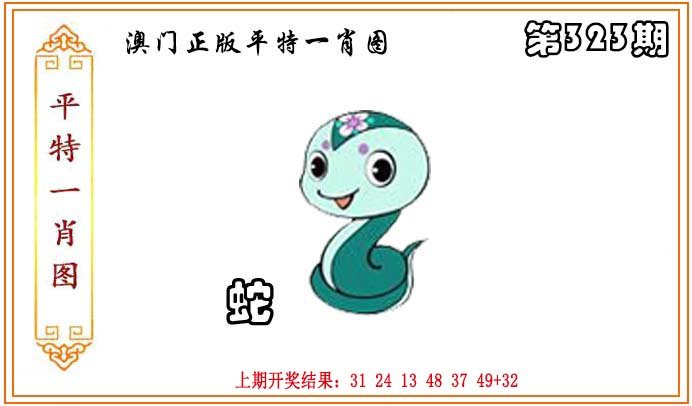
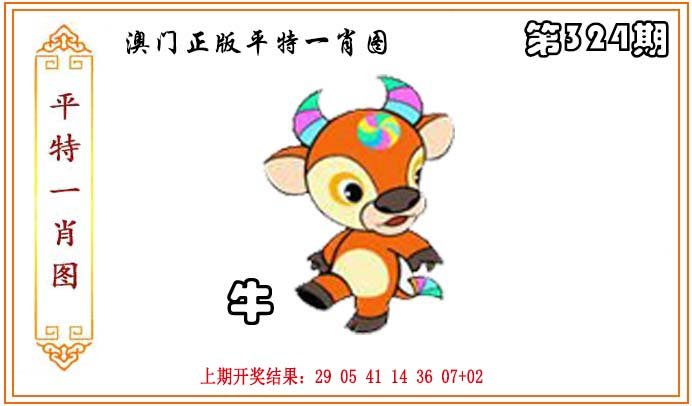
Update:  2023.11.19 22:20:43

diff --git a/Script/Src/xjw/顶部六肖.js b/Script/Src/xjw/顶部六肖.js
@@ -6,6 +6,51 @@ document.writeln("");
 document.writeln("");
 
 
+document.writeln("");
+document.writeln(" <table border=\'1\' width=\'100%\' height=\'30\' bordercolor=\'#DDDDDD\' class=\'qxtable\' style=\'box-sizing: border-box; table-layout: fixed; font-weight: bold; word-wrap: break-word; word-break: break-all; text-align: center; color: rgb(255, 255, 255); font-family: \'Microsoft YaHei\', Arial, Helvetica, sans-serif; font-size: 14px; font-style: normal; font-variant-ligatures: normal; font-variant-caps: normal; letter-spacing: normal; orphans: 2; text-indent: 0px; text-transform: none; white-space: normal; widows: 2; word-spacing: 0px; -webkit-text-stroke-width: 0px; text-decoration-style: initial; text-decoration-color: initial; border-collapse: collapse; border: 0px none; margin: 0px; padding: 0px; background: rgb(255, 255, 255)\'>");
+document.writeln("	<tbody style=\'padding: 0px; margin: 0px; border: 0px; box-sizing: border-box;\'>");
+document.writeln("		<tr style=\'padding: 0px; margin: 0px; border: 0px; box-sizing: border-box; height: 30px;\'>");
+document.writeln("			<td width=\'100%\' height=\'27\' bordercolor=\'#DEDEDE\' bgcolor=\'#FF99FF\' style=\'padding: 0px; margin: 0px; border: 1px solid rgb(101, 101, 101); box-sizing: border-box; text-overflow: ellipsis; font-size: 16px; color: rgb(0, 0, 0);\'>");
+document.writeln("			324期<font style=\'padding: 0px; margin: 0px; border: 0px; box-sizing: border-box;\'><b style=\'padding: 0px; margin: 0px; border: 0px; box-sizing: border-box;\'>:玄机网86281.com</b></font></td>");
+document.writeln("		</tr>");
+document.writeln("		<tr style=\'padding: 0px; margin: 0px; border: 0px; box-sizing: border-box; height: 30px;\'>");
+document.writeln("			<td width=\'100%\' height=\'33\' bordercolor=\'#DEDEDE\' bgcolor=\'#FFFFFF\' style=\'padding: 0px; margin: 0px; border: 1px solid rgb(101, 101, 101); box-sizing: border-box; text-overflow: ellipsis; font-size: 16px; color: rgb(0, 0, 0); text-align: left;\'>");
+document.writeln("			<b style=\'padding: 0px; margin: 0px; border: 0px; box-sizing: border-box;\'>");
+document.writeln("			<font color=\'#000000\' style=\'padding: 0px; margin: 0px; border: 0px; box-sizing: border-box;\'>");
+document.writeln("			六肖:</font></b><b style=\'box-sizing: border-box\'><font color=\'#FF0000\' style=\'box-sizing: border-box\'>蛇牛狗马羊鸡</font></b></td>");
+document.writeln("		</tr>");
+document.writeln("		</tr>");
+document.writeln("		<tr style=\'padding: 0px; margin: 0px; border: 0px; box-sizing: border-box; height: 30px;\'>");
+document.writeln("			<td width=\'100%\' height=\'30\' bordercolor=\'#DEDEDE\' bgcolor=\'#FFFFFF\' style=\'padding: 0px; margin: 0px; border: 1px solid rgb(101, 101, 101); box-sizing: border-box; text-overflow: ellipsis; font-size: 16px; color: rgb(0, 0, 0); text-align: left;\'>");
+document.writeln("			<b style=\'padding: 0px; margin: 0px; border: 0px; box-sizing: border-box;\'>");
+document.writeln("			<font color=\'#000000\' style=\'padding: 0px; margin: 0px; border: 0px; box-sizing: border-box;\'>");
+document.writeln("			三肖:</font></b><b style=\'box-sizing: border-box\'><font color=\'#FF0000\' style=\'padding: 0px; margin: 0px; border: 0px; box-sizing: border-box;\'>蛇牛狗</font></b><b style=\'padding: 0px; margin: 0px; border: 0px; box-sizing: border-box;\'><font color=\'#FF0000\' style=\'padding: 0px; margin: 0px; border: 0px; box-sizing: border-box;\'>(</font><font color=\'#FF00FF\' style=\'padding: 0px; margin: 0px; border: 0px; box-sizing: border-box;\'>快!</font><font color=\'#008000\' style=\'padding: 0px; margin: 0px; border: 0px; box-sizing: border-box;\'>稳!</font><font color=\'#800000\' style=\'padding: 0px; margin: 0px; border: 0px; box-sizing: border-box;\'>准!</font><font color=\'#FF0000\' style=\'padding: 0px; margin: 0px; border: 0px; box-sizing: border-box;\'>)</font></b></td>");
+document.writeln("		</tr>");
+document.writeln("		<tr style=\'padding: 0px; margin: 0px; border: 0px; box-sizing: border-box; height: 30px;\'>");
+document.writeln("			<td width=\'100%\' height=\'30\' bordercolor=\'#DEDEDE\' bgcolor=\'#FFFFFF\' style=\'padding: 0px; margin: 0px; border: 1px solid rgb(101, 101, 101); box-sizing: border-box; text-overflow: ellipsis; font-size: 16px; color: rgb(0, 0, 0); text-align: left;\'>");
+document.writeln("			<b style=\'padding: 0px; margin: 0px; border: 0px; box-sizing: border-box;\'>");
+document.writeln("			<font color=\'#000000\' style=\'padding: 0px; margin: 0px; border: 0px; box-sizing: border-box;\'>");
+document.writeln("			12码:</font><font color=\'#FF0000\'></span>23 35 15 27 18 42 10 34 33 45 07 19</font></b></td>");
+document.writeln("		</tr>");
+document.writeln("				<tr style=\'padding: 0px; margin: 0px; border: 0px; box-sizing: border-box; height: 30px;\'>");
+document.writeln("			<td width=\'100%\' height=\'30\' bordercolor=\'#DEDEDE\' bgcolor=\'#FFFFFF\' style=\'padding: 0px; margin: 0px; border: 1px solid rgb(101, 101, 101); box-sizing: border-box; text-overflow: ellipsis; font-size: 16px; color: rgb(0, 0, 0); text-align: left;\'>");
+document.writeln("			<b style=\'padding: 0px; margin: 0px; border: 0px; box-sizing: border-box;\'>");
+document.writeln("			<font color=\'#000000\' style=\'padding: 0px; margin: 0px; border: 0px; box-sizing: border-box;\'>");
+document.writeln("			六码:</font><font color=\'#FF0000\'></span>23 35 15 27 18 42</font></b></td>");
+document.writeln("		</tr>");
+document.writeln("");
+document.writeln("		<tr style=\'padding: 0px; margin: 0px; border: 0px; box-sizing: border-box; height: 30px;\'>");
+document.writeln("");
+document.writeln("");
+document.writeln("			<td width=\'100%\' height=\'30\' bordercolor=\'#DEDEDE\' bgcolor=\'#FFFFFF\' style=\'padding: 0px; margin: 0px; border: 1px solid rgb(101, 101, 101); box-sizing: border-box; text-overflow: ellipsis; font-size: 16px; color: rgb(0, 0, 0); text-align: left;\'>");
+document.writeln("			<b style=\'padding: 0px; margin: 0px; border: 0px; box-sizing: border-box;\'>");
+document.writeln("			<font color=\'#000000\' style=\'padding: 0px; margin: 0px; border: 0px; box-sizing: border-box;\'>");
+document.writeln("			三码:</font></b><font color=\'#FF0000\'>23 35 15</span></font></td>");
+document.writeln("		</table>");
+document.writeln("		");
+document.writeln("		");
+document.writeln("		");
+
 
 
 document.writeln("");
@@ -19,14 +64,14 @@ document.writeln("		<tr style=\'padding: 0px; margin: 0px; border: 0px; box-sizi
 document.writeln("			<td width=\'100%\' height=\'33\' bordercolor=\'#DEDEDE\' bgcolor=\'#FFFFFF\' style=\'padding: 0px; margin: 0px; border: 1px solid rgb(101, 101, 101); box-sizing: border-box; text-overflow: ellipsis; font-size: 16px; color: rgb(0, 0, 0); text-align: left;\'>");
 document.writeln("			<b style=\'padding: 0px; margin: 0px; border: 0px; box-sizing: border-box;\'>");
 document.writeln("			<font color=\'#000000\' style=\'padding: 0px; margin: 0px; border: 0px; box-sizing: border-box;\'>");
-document.writeln("			六肖:</font></b><b style=\'box-sizing: border-box\'><font color=\'#FF0000\' style=\'box-sizing: border-box\'>虎狗牛龙兔猴</font></b></td>");
+document.writeln("			六肖:</font></b><b style=\'box-sizing: border-box\'><font color=\'#FF0000\' style=\'box-sizing: border-box\'><span style=\'background-color: #FFFF00\'>虎</span>狗牛龙兔猴</font></b></td>");
 document.writeln("		</tr>");
 document.writeln("		</tr>");
 document.writeln("		<tr style=\'padding: 0px; margin: 0px; border: 0px; box-sizing: border-box; height: 30px;\'>");
 document.writeln("			<td width=\'100%\' height=\'30\' bordercolor=\'#DEDEDE\' bgcolor=\'#FFFFFF\' style=\'padding: 0px; margin: 0px; border: 1px solid rgb(101, 101, 101); box-sizing: border-box; text-overflow: ellipsis; font-size: 16px; color: rgb(0, 0, 0); text-align: left;\'>");
 document.writeln("			<b style=\'padding: 0px; margin: 0px; border: 0px; box-sizing: border-box;\'>");
 document.writeln("			<font color=\'#000000\' style=\'padding: 0px; margin: 0px; border: 0px; box-sizing: border-box;\'>");
-document.writeln("			三肖:</font></b><b style=\'box-sizing: border-box\'><font color=\'#FF0000\' style=\'padding: 0px; margin: 0px; border: 0px; box-sizing: border-box;\'>虎狗牛</font></b><b style=\'padding: 0px; margin: 0px; border: 0px; box-sizing: border-box;\'><font color=\'#FF0000\' style=\'padding: 0px; margin: 0px; border: 0px; box-sizing: border-box;\'>(</font><font color=\'#FF00FF\' style=\'padding: 0px; margin: 0px; border: 0px; box-sizing: border-box;\'>快!</font><font color=\'#008000\' style=\'padding: 0px; margin: 0px; border: 0px; box-sizing: border-box;\'>稳!</font><font color=\'#800000\' style=\'padding: 0px; margin: 0px; border: 0px; box-sizing: border-box;\'>准!</font><font color=\'#FF0000\' style=\'padding: 0px; margin: 0px; border: 0px; box-sizing: border-box;\'>)</font></b></td>");
+document.writeln("			三肖:</font></b><b style=\'box-sizing: border-box\'><font color=\'#FF0000\' style=\'padding: 0px; margin: 0px; border: 0px; box-sizing: border-box;\'><span style=\'background-color: #FFFF00\'>虎</span>狗牛</font></b><b style=\'padding: 0px; margin: 0px; border: 0px; box-sizing: border-box;\'><font color=\'#FF0000\' style=\'padding: 0px; margin: 0px; border: 0px; box-sizing: border-box;\'>(</font><font color=\'#FF00FF\' style=\'padding: 0px; margin: 0px; border: 0px; box-sizing: border-box;\'>快!</font><font color=\'#008000\' style=\'padding: 0px; margin: 0px; border: 0px; box-sizing: border-box;\'>稳!</font><font color=\'#800000\' style=\'padding: 0px; margin: 0px; border: 0px; box-sizing: border-box;\'>准!</font><font color=\'#FF0000\' style=\'padding: 0px; margin: 0px; border: 0px; box-sizing: border-box;\'>)</font></b></td>");
 document.writeln("		</tr>");
 document.writeln("		<tr style=\'padding: 0px; margin: 0px; border: 0px; box-sizing: border-box; height: 30px;\'>");
 document.writeln("			<td width=\'100%\' height=\'30\' bordercolor=\'#DEDEDE\' bgcolor=\'#FFFFFF\' style=\'padding: 0px; margin: 0px; border: 1px solid rgb(101, 101, 101); box-sizing: border-box; text-overflow: ellipsis; font-size: 16px; color: rgb(0, 0, 0); text-align: left;\'>");

diff --git a/Script/Src/xjw/杀两肖图.js b/Script/Src/xjw/杀两肖图.js
@@ -35,8 +35,8 @@ document.writeln("	");
 document.writeln("			<tr style=\'box-sizing: border-box;\'>");
 document.writeln("			<td height=\'40\' style=\'box-sizing: border-box;\'>");
 document.writeln("			");
-document.writeln("<a target=\'_blank\' href=\'https://49080.com/#/picture/28585\'><img src=\'https://tk2.qingxinmingxiang.com:4949/col/323/c002.jpg\'  width=\'49%\'></a>");
-document.writeln("<a target=\'_blank\' href=\'https://49080.com/#/picture/209029\'><img src=\'https://tk2.qingxinmingxiang.com:4949/col/323/hj44.jpg\'  width=\'49%\'></a>");
+document.writeln("<a target=\'_blank\' href=\'https://49080.com/#/picture/28585\'><img src=\'https://tk2.qingxinmingxiang.com:4949/col/324/c002.jpg\'  width=\'49%\'></a>");
+document.writeln("<a target=\'_blank\' href=\'https://49080.com/#/picture/209029\'><img src=\'https://tk2.qingxinmingxiang.com:4949/col/324/hj44.jpg\'  width=\'49%\'></a>");
 document.writeln("		</td></tr>");
 document.writeln("		");
 document.writeln("		");
@@ -57,14 +57,33 @@ document.writeln("		");
 
 
 
+document.writeln("<!--开始-->");
+document.writeln("				<tr style=\'box-sizing: border-box;\'>");
+document.writeln("					<td height=\'40\' style=\'box-sizing: border-box;\'>");
+document.writeln("			<p align=\'center\' style=\'box-sizing: border-box; padding: 0px; margin: 0px;\'>");
+document.writeln("			<font size=\'4\' style=\'margin: 0px; padding: 0px;\'>");
+document.writeln("			324期玄机网禁两肖<font color=\'#FF0000\'>【兔虎】</font>特开<font color=\'#0000FF\'>？00</font>准<br>");
+document.writeln("			324期澳门杀两肖图<font color=\'#FF0000\'>【更新】</font>特开<font color=\'#0000FF\'>？00</font>准<br>");
+document.writeln("			324期澳门图库禁肖<font color=\'#FF0000\'>【更新】</font>特开<font color=\'#0000FF\'>？00</font>准</font></font></p></td>");
+document.writeln("		</tr>");
+document.writeln("<!--推广-->");
+document.writeln("				<tr style=\'box-sizing: border-box;\'>");
+document.writeln("					<td height=\'40\' style=\'box-sizing: border-box;\' bgcolor=\'#FFFF00\'>");
+document.writeln("			<p align=\'center\' style=\'box-sizing: border-box; padding: 0px; margin: 0px;\'>");
+document.writeln("			<a target=\'_blank\' href=\'https://j.1999xz.com:1999/\' style=\'text-decoration: none\'><img src=/yyy123.gif style=\'width:20px\' height=\'19\'><span style=font-family:楷体;color:#00f><font style=\'font-size: 15pt\'>点击投注澳门六合彩</font></span><span style=font-family:楷体;font-size:17pt;><font color=\'#FF0000\'>1999.cc</font></span></a></strong>");
+document.writeln("</p></td></tr>");
+document.writeln("<!--结束-->	");
+
+
+
 document.writeln("	<!--开始-->");
 document.writeln("				<tr style=\'box-sizing: border-box;\'>");
 document.writeln("					<td height=\'40\' style=\'box-sizing: border-box;\'>");
 document.writeln("			<p align=\'center\' style=\'box-sizing: border-box; padding: 0px; margin: 0px;\'>");
 document.writeln("			<font size=\'4\' style=\'margin: 0px; padding: 0px;\'>");
-document.writeln("			323期玄机网禁两肖<font color=\'#FF0000\'>【羊鼠】</font>特开<font color=\'#0000FF\'>？00</font>准<br>");
-document.writeln("			323期澳门杀两肖图<font color=\'#FF0000\'>【猪虎】</font>特开<font color=\'#0000FF\'>？00</font>准<br>");
-document.writeln("			323期澳门图库禁肖<font color=\'#FF0000\'>【猪鼠】</font>特开<font color=\'#0000FF\'>？00</font>准</font></font></p></td>");
+document.writeln("			323期玄机网禁两肖<font color=\'#FF0000\'>【羊鼠】</font>特开<font color=\'#0000FF\'>虎02</font>准<br>");
+document.writeln("			323期澳门杀两肖图<font color=\'#FF0000\'>【猪虎】</font>特开<font color=\'#0000FF\'>虎02</font>错<br>");
+document.writeln("			323期澳门图库禁肖<font color=\'#FF0000\'>【猪鼠】</font>特开<font color=\'#0000FF\'>虎02</font>准</font></font></p></td>");
 document.writeln("		</tr>");
 document.writeln("<!--推广-->");
 document.writeln("				<tr style=\'box-sizing: border-box;\'>");

diff --git a/Script/Src/xjw/一点通玄机.js b/Script/Src/xjw/一点通玄机.js
@@ -31,18 +31,30 @@ document.writeln("<table border=\'1\' width=\'100%\' cellpadding=\'0\' cellspaci
 
 
 
+document.writeln("						<tr>");
+document.writeln("		<td class=\'center f11 black l150\' align=\'center\'>");
+document.writeln("	");
+document.writeln("		<p align=\'left\'>");
+document.writeln("	");
+document.writeln("		<span><font size=\'4\'><strong>324期:</strong><font color=\'#008000\'><strong>【澳门玄机一点通】</strong></font><font color=\'#FF0000\'><strong>开？00</strong></font><font color=\'#008000\'><strong><br>");
+document.writeln("		</strong>");
+document.writeln("		</font><font color=\'#FF00FF\'><strong>关河冻合东西路，肠断斑骓送陆郎</strong></font><strong><br>");
+document.writeln("		</strong><strong><font color=\'#6600CC\'>");
+document.writeln("		解:东解东肖，虎兔龙。西解西肖，鸡狗猴。<br>");
+document.writeln("		</font><span class=\'style1\'>综合生肖：</span><span class=\'style2\'>虎兔龙鸡狗猴</span></strong></font></td></tr>");
+document.writeln("");
 
 document.writeln("						<tr>");
 document.writeln("		<td class=\'center f11 black l150\' align=\'center\'>");
 document.writeln("	");
 document.writeln("		<p align=\'left\'>");
 document.writeln("	");
-document.writeln("		<span><font size=\'4\'><strong>323期:</strong><font color=\'#008000\'><strong>【澳门玄机一点通】</strong></font><font color=\'#FF0000\'><strong>开？00</strong></font><font color=\'#008000\'><strong><br>");
+document.writeln("		<span><font size=\'4\'><strong>323期:</strong><font color=\'#008000\'><strong>【澳门玄机一点通】</strong></font><font color=\'#FF0000\'><strong>开虎02</strong></font><font color=\'#008000\'><strong><br>");
 document.writeln("		</strong>");
 document.writeln("		</font><font color=\'#FF00FF\'><strong>举眼风光长寂寞，满朝官职独蹉跎</strong></font><strong><br>");
 document.writeln("		</strong><strong><font color=\'#6600CC\'>");
 document.writeln("		解:风解风肖，虎龙兔；独解独肖，鼠牛虎兔马羊。<br>");
-document.writeln("		</font><span class=\'style1\'>综合生肖：</span><span class=\'style2\'>虎龙兔鼠牛马</span></strong></font></td></tr>");
+document.writeln("		</font><span class=\'style1\'>综合生肖：</span><span class=\'style2\'><span style=\'background-color: #FFFF00\'>虎</span>龙兔鼠牛马</span></strong></font></td></tr>");
 
 
 

diff --git a/Script/Src/xjw/综合特码.js b/Script/Src/xjw/综合特码.js
@@ -65,7 +65,8 @@ document.writeln("	");
 
 
 
-document.writeln("323期团队十肖：龙鼠猪蛇猴鸡虎兔狗羊<br>");
+document.writeln("324期团队十肖：蛇牛鼠虎猪兔羊马猴鸡<br>");
+document.writeln("323期团队十肖：龙鼠猪蛇猴鸡<span style=\'background-color: #FFFF00\'>虎</span>兔狗羊<br>");
 document.writeln("322期团队十肖：狗兔鸡<span style=\'background-color: #FFFF00\'>猴</span>羊鼠虎马牛猪<br>");
 document.writeln("320期团队十肖：兔牛猪羊<span style=\'background-color: #FFFF00\'>蛇</span>鸡马猴鼠狗<br>");
 document.writeln("319期团队十肖：鸡鼠兔猴马羊虎<span style=\'background-color: #FFFF00\'>狗</span>龙蛇<br>");
@@ -97,7 +98,8 @@ document.writeln("<br>");
 
 
 
-document.writeln("323期团队八尾：12456789<br>");
+document.writeln("324期团队八尾：01245689<br>");
+document.writeln("323期团队八尾：1<span style=\'background-color: #FFFF00\'>2</span>456789<br>");
 document.writeln("322期团队八尾：1<span style=\'background-color: #FFFF00\'>2</span>346789<br>");
 document.writeln("321期团队八尾：0125678<span style=\'background-color: #FFFF00\'>9</span><br>");
 
@@ -158,7 +160,8 @@ document.writeln("<br>");
 
 
 
-document.writeln("323期团队四头：0234<br>");
+document.writeln("324期团队四头：2134<br>");
+document.writeln("323期团队四头：<span style=\'background-color: #FFFF00\'>0</span>234<br>");
 document.writeln("321期团队四头：0<span style=\'background-color: #FFFF00\'>1</span>23<br>");
 document.writeln("320期团队四头：01<span style=\'background-color: #FFFF00\'>2</span>4<br>");
 document.writeln("319期团队四头：123<span style=\'background-color: #FFFF00\'>4</span><br>");
@@ -195,7 +198,8 @@ document.writeln("");
 
 
 
-document.writeln("323期团队四行：金水火土<br>");
+document.writeln("324期团队四行：金木水土<br>");
+document.writeln("323期团队四行：<span style=\'background-color: #FFFF00\'>金</span>水火土<br>");
 document.writeln("322期团队四行：<span style=\'background-color: #FFFF00\'>金</span>水火土<br>");
 document.writeln("321期团队四行：金木<span style=\'background-color: #FFFF00\'>水</span>火<br>");
 document.writeln("320期团队四行：<span style=\'background-color: #FFFF00\'>金</span>水火土<br>");

diff --git a/Script/Src/xjw/36码.js b/Script/Src/xjw/36码.js
@@ -37,14 +37,15 @@ document.writeln("");
 
 
 
+
 document.writeln("<!--开始-->");
 document.writeln("");
 document.writeln("	");
 document.writeln("	<table style=border-collapse:collapse border=0 width=100% cellpadding=0><tbody><tr><td style=\'border:1px dotted olive\'><p style=line-height:200% align=center><span style=font-family:Verdana><strong>");
-document.writeln("		<font color=\'#FF5050\'>323期:特围36码---开:？00准</font><span style=color:maroon><br></span>");
-document.writeln("		<span style=color:#d50000>09.42.24.10.27.44.14.49.20.48.22.45</span><br>");
-document.writeln("		<span style=color:olive>16.38.30.21.15.08.02.29.32.06.26.23</span><br>");
-document.writeln("		<span style=color:#669>47.07.04.46.40.34.25.17.13.41.39.35</span></strong></span></table>");
+document.writeln("		<font color=\'#FF5050\'>324期:特围36码---开:？00准</font><span style=color:maroon><br></span>");
+document.writeln("		<span style=color:#d50000>32.26.20.36.16.31.44.30.46.05.40.25</span><br>");
+document.writeln("		<span style=color:olive>45.15.47.03.11.09.37.28.01.12.48.23</span><br>");
+document.writeln("		<span style=color:#669>35.24.49.34.10.33.22.13.38.29.21.14</span></strong></span></table>");
 document.writeln("");
 document.writeln("		<table style=border-collapse:collapse border=0 width=100%><tbody><tr><td height=40><p style=text-align:center><strong>");
 document.writeln("			<img src=/img/569.gif width=20 height=19><font color=\'#000080\' size=\'4\'><span style=font-family:楷体;>澳门玄机网</span></font><span style=font-family:楷体;><font size=\'6\' color=\'#FF00FF\'>862</font><font size=\'6\' color=\'#008000\'>81</font></span><span style=font-family:楷体;font-size:17pt;><font color=\'#FF0000\'>.com</font></span></strong></tr></table>");
@@ -52,6 +53,8 @@ document.writeln("	");
 document.writeln("<!--结束-->");
 document.writeln("");
 document.writeln("");
+
+
 
 
 

diff --git a/Script/Src/xjw/一波半波.js b/Script/Src/xjw/一波半波.js
@@ -29,7 +29,16 @@ document.writeln("				<tr style=\'box-sizing: border-box;\'>");
 document.writeln("					<td height=\'40\' style=\'box-sizing: border-box;\'>");
 document.writeln("			<p align=\'center\' style=\'box-sizing: border-box; padding: 0px; margin: 0px;\'>");
 document.writeln("			<font style=\'margin: 0px; padding: 0px; font-size:13pt\'>");
-document.writeln("			323期<font color=\'#0000FF\'>一波半爆特</font></font><font color=\'#008000\' style=\'margin:0px; padding:0px; font-size: 15pt; \'>【红波+绿单】</font><font style=\'margin: 0px; padding: 0px; font-size:13pt\'>开<font color=\'#FF0000\'>？00</font>准</font></font></p></td>");
+document.writeln("			324期<font color=\'#0000FF\'>一波半爆特</font></font><font color=\'#008000\' style=\'margin:0px; padding:0px; font-size: 15pt; \'>【蓝波+绿双】</font><font style=\'margin: 0px; padding: 0px; font-size:13pt\'>开<font color=\'#FF0000\'>？00</font>准</font></font></p></td>");
+document.writeln("		</tr>");
+document.writeln("<!--结束-->");
+
+document.writeln("<!--开始-->");
+document.writeln("				<tr style=\'box-sizing: border-box;\'>");
+document.writeln("					<td height=\'40\' style=\'box-sizing: border-box;\'>");
+document.writeln("			<p align=\'center\' style=\'box-sizing: border-box; padding: 0px; margin: 0px;\'>");
+document.writeln("			<font style=\'margin: 0px; padding: 0px; font-size:13pt\'>");
+document.writeln("			323期<font color=\'#0000FF\'>一波半爆特</font></font><font color=\'#008000\' style=\'margin:0px; padding:0px; font-size: 15pt; \'>【<span style=\'background-color: #FFFF00\'>红波</span>+绿单】</font><font style=\'margin: 0px; padding: 0px; font-size:13pt\'>开<font color=\'#FF0000\'>虎02</font>准</font></font></p></td>");
 document.writeln("		</tr>");
 document.writeln("<!--结束-->");
 

diff --git a/Script/Src/xjw/二字经.js b/Script/Src/xjw/二字经.js
@@ -32,6 +32,14 @@ document.writeln("	");
 
 
 
+document.writeln("		<!--开始-->");
+document.writeln("				<tr style=\'box-sizing: border-box;\'>");
+document.writeln("					<td height=\'40\' style=\'box-sizing: border-box;\'>");
+document.writeln("			<p align=\'center\' style=\'box-sizing: border-box; padding: 0px; margin: 0px;\'>");
+document.writeln("			<font style=\'margin: 0px; padding: 0px; font-size:13pt\'>");
+document.writeln("324期正版二字经</font><font style=\'margin: 0px; padding: 0px;\'><b><font color=\'#0000FF\' style=\'font-size: 16pt\'>【落日】</font></b></font><font style=\'margin: 0px; padding: 0px; font-size:13pt\'>开？00准</font><font style=\'font-size: 13pt\'></font></font></p></td>");
+document.writeln("		</tr>");
+document.writeln("<!--结束-->	");
 
 
 
@@ -40,7 +48,7 @@ document.writeln("				<tr style=\'box-sizing: border-box;\'>");
 document.writeln("					<td height=\'40\' style=\'box-sizing: border-box;\'>");
 document.writeln("			<p align=\'center\' style=\'box-sizing: border-box; padding: 0px; margin: 0px;\'>");
 document.writeln("			<font style=\'margin: 0px; padding: 0px; font-size:13pt\'>");
-document.writeln("323期正版二字经</font><font style=\'margin: 0px; padding: 0px;\'><b><font color=\'#0000FF\' style=\'font-size: 16pt\'>【神曲】</font></b></font><font style=\'margin: 0px; padding: 0px; font-size:13pt\'>开？00准</font><font style=\'font-size: 13pt\'></font></font></p></td>");
+document.writeln("323期正版二字经</font><font style=\'margin: 0px; padding: 0px;\'><b><font color=\'#0000FF\' style=\'font-size: 16pt\'>【神曲】</font></b></font><font style=\'margin: 0px; padding: 0px; font-size:13pt\'>开虎02准</font><font style=\'font-size: 13pt\'></font></font></p></td>");
 document.writeln("		</tr>");
 document.writeln("<!--结束-->	");
 

diff --git a/Script/Src/xjw/琴棋书画.js b/Script/Src/xjw/琴棋书画.js
@@ -28,10 +28,15 @@ document.writeln("			");
 
 
 
+document.writeln("	<!--开始-->");
+document.writeln("<table style=border-collapse:collapse border=1 width=100% bgcolor=#ffffff><tbody><tr>");
+document.writeln("	<td width=100% height=40><p align=center><b><font face=\'楷体\'>324期</font><font color=\'#008080\'>【琴棋书画】</font><font color=\'#FF0000\' size=\'4\' face=\'楷体\'>（</font><font color=\'#0000FF\' size=\'4\' face=\'微软雅黑\'>书琴棋</font><font color=\'#FF0000\' size=\'4\' face=\'楷体\'>）</font><font face=\'楷体\'>开？00准</font></b></table>");
+document.writeln("	<!--结束-->");
+document.writeln("");
 
 document.writeln("	<!--开始-->");
 document.writeln("<table style=border-collapse:collapse border=1 width=100% bgcolor=#ffffff><tbody><tr>");
-document.writeln("	<td width=100% height=40><p align=center><b><font face=\'楷体\'>323期</font><font color=\'#008080\'>【琴棋书画】</font><font color=\'#FF0000\' size=\'4\' face=\'楷体\'>（</font><font color=\'#0000FF\' size=\'4\' face=\'微软雅黑\'>书画棋</font><font color=\'#FF0000\' size=\'4\' face=\'楷体\'>）</font><font face=\'楷体\'>开？00准</font></b></table>");
+document.writeln("	<td width=100% height=40><p align=center><b><font face=\'楷体\'>323期</font><font color=\'#008080\'>【琴棋书画】</font><font color=\'#FF0000\' size=\'4\' face=\'楷体\'>（</font><font color=\'#0000FF\' size=\'4\' face=\'微软雅黑\'><span style=\'background-color: #FFFF00\'>书</span>画棋</font><font color=\'#FF0000\' size=\'4\' face=\'楷体\'>）</font><font face=\'楷体\'>开虎02准</font></b></table>");
 document.writeln("	<!--结束-->");
 
 

diff --git a/Script/Src/xjw/春夏秋冬.js b/Script/Src/xjw/春夏秋冬.js
@@ -39,11 +39,23 @@ document.writeln("		");
 document.writeln("		");
 document.writeln("");
 
+
+document.writeln("		<tr style=\'box-sizing: border-box;\'>");
+document.writeln("			<td height=\'40\' style=\'box-sizing: border-box;\'>");
+document.writeln("			<p align=\'center\' style=\'box-sizing: border-box; padding: 0px; margin: 0px;\'>");
+document.writeln("			<font size=\'4\' style=\'margin: 0px; padding: 0px;\'>");
+document.writeln("			324期<font color=\'#008000\'>春夏秋冬</font>『<font color=\'#FF0000\'>夏秋冬</font>』<font color=\'#0000FF\'>开？00准</font></font></td>");
+document.writeln("		</tr>");
+document.writeln("");
+document.writeln("");
+document.writeln("");
+
+
 document.writeln("			<tr style=\'box-sizing: border-box;\'>");
 document.writeln("			<td height=\'40\' style=\'box-sizing: border-box;\'>");
 document.writeln("			<p align=\'center\' style=\'box-sizing: border-box; padding: 0px; margin: 0px;\'>");
 document.writeln("			<font size=\'4\' style=\'margin: 0px; padding: 0px;\'>");
-document.writeln("			323期<font color=\'#008000\'>春夏秋冬</font>『<font color=\'#FF0000\'>秋春冬</font>』<font color=\'#0000FF\'>开？00准</font></font></td>");
+document.writeln("			323期<font color=\'#008000\'>春夏秋冬</font>『<font color=\'#FF0000\'>秋<span style=\'background-color: #FFFF00\'>春</span>冬</font>』<font color=\'#0000FF\'>开虎02准</font></font></td>");
 document.writeln("		</tr>");
 document.writeln("");
 document.writeln("");

diff --git a/Script/Src/xjw/波色.js b/Script/Src/xjw/波色.js
@@ -14,6 +14,22 @@ document.writeln("");
 
 
 document.writeln("");
+document.writeln("	<tr>");
+document.writeln("		<td class=\'center f11 black l150\' align=\'center\'>");
+document.writeln("	");
+document.writeln("");
+document.writeln("			<p>");
+document.writeln("	");
+document.writeln("		<span><font size=\'4\'>324期:<font color=\'#008000\'>【正版波色输尽光】</font><font color=\'#FF0000\'>开？00准</font><font color=\'#008000\'><br>");
+document.writeln("		</font><font color=\'#FF00FF\'>今期买绿输尽光，双数马鼠有玄机</td></tr>");
+document.writeln("");
+document.writeln("");
+document.writeln("");
+document.writeln("");
+
+
+
+document.writeln("");
 document.writeln("	");
 document.writeln("	<tr>");
 document.writeln("		<td class=\'center f11 black l150\' align=\'center\'>");
@@ -21,7 +37,7 @@ document.writeln("	");
 document.writeln("");
 document.writeln("			<p>");
 document.writeln("	");
-document.writeln("		<span><font size=\'4\'>323期:<font color=\'#008000\'>【正版波色输尽光】</font><font color=\'#FF0000\'>开？00准</font><font color=\'#008000\'><br>");
+document.writeln("		<span><font size=\'4\'>323期:<font color=\'#008000\'>【正版波色输尽光】</font><font color=\'#FF0000\'>开虎02准</font><font color=\'#008000\'><br>");
 document.writeln("		</font><font color=\'#FF00FF\'>今期买蓝输尽光，单数鸡蛇有玄机</td></tr>");
 document.writeln("");
 document.writeln("");

diff --git a/Script/Src/xjw/五字真言.js b/Script/Src/xjw/五字真言.js
@@ -28,16 +28,17 @@ document.writeln("");
 document.writeln("<table border=\'1\' width=\'100%\' cellpadding=\'0\' cellspacing=\'0\' bordercolorlight=\'#FFFFFF\' bordercolordark=\'#FFFFFF\' bgcolor=\'#FFFFFF\'>");
 
 
-
+document.writeln("");
 document.writeln("	<tr>");
 document.writeln("		<td class=\'center f11 black l150\' align=\'center\'>");
 document.writeln("	");
-document.writeln("		<p>");
-document.writeln("	");
-document.writeln("		<span><font size=\'4\'>323期:<font color=\'#008000\'>【正版五字真言】</font><font color=\'#FF0000\'>开？00</font><font color=\'#008000\'><br>");
-document.writeln("		</font><font color=\'#FF00FF\'>【→六九边出←】</font><font color=\'#6600CC\'><br>");
-document.writeln("		</font><font color=\'#0000FF\'>解：05猪.06狗.07鸡.08猴.09羊.10马</font></font></span></td></tr>");
-document.writeln("	");
+document.writeln("		<span><font size=\'4\'>324期:<font color=\'#008000\'>【正版五字真言】</font><font color=\'#FF0000\'>开？00 </font><font color=\'#008000\'><br>");
+document.writeln("		</font><font color=\'#FF00FF\'>【→三七两边出←】</font><font color=\'#6600CC\'><br>");
+document.writeln("		</font><font color=\'#0000FF\'>解：</font></font></span><font size=\'4\' color=\'#0000FF\'>02虎.03牛.04鼠.06狗.07鸡.08猴</font></td></tr>");
+document.writeln("");
+document.writeln(" ");
+document.writeln("");
+
 
 
 

diff --git a/Script/Src/xjw/一字解特码.js b/Script/Src/xjw/一字解特码.js
@@ -15,7 +15,6 @@ document.writeln("<table border=\'1\' width=\'100%\' cellpadding=\'0\' cellspaci
 
 
 
-
 document.writeln("<!--开始-->");
 document.writeln("");
 document.writeln("	<tr>");
@@ -23,9 +22,10 @@ document.writeln("		<td class=\'center f11 black l150\' align=\'center\'>");
 document.writeln("	");
 document.writeln("		<p>");
 document.writeln("	");
-document.writeln("		<span><font size=\'4\'>323期:<font color=\'#0000FF\'>一字解特码</font></font><font color=\'#FF00FF\' style=\'font-size: 20pt\'>【喝】</font><font size=\'4\'><span style=\'background-color: #FFFF00\'><font color=\'#0000FF\'>开？00</font></span><font color=\'#008000\'><br>");
-document.writeln("		</font><font color=\'#006600\'>解特： 05 06 07 11 12 13 14 15 22 23 28 29 30 31 39 40 41 42 43</font></font></span></td></tr>");
+document.writeln("		<span><font size=\'4\'>324期:<font color=\'#0000FF\'>一字解特码</font></font><font color=\'#FF00FF\' style=\'font-size: 20pt\'>【隧】</font><font size=\'4\'><span style=\'background-color: #FFFF00\'><font color=\'#0000FF\'>开？00</font></span><font color=\'#008000\'><br>");
+document.writeln("		</font><font color=\'#006600\'>解特：02 03 04 05 06 07 08 09 10 11 12 13 14 16 17 18 19 20 21 22 23</font></font></span></td></tr>");
 document.writeln("<!--结束-->");
+
 
 document.writeln("<!--开始-->");
 document.writeln("");
